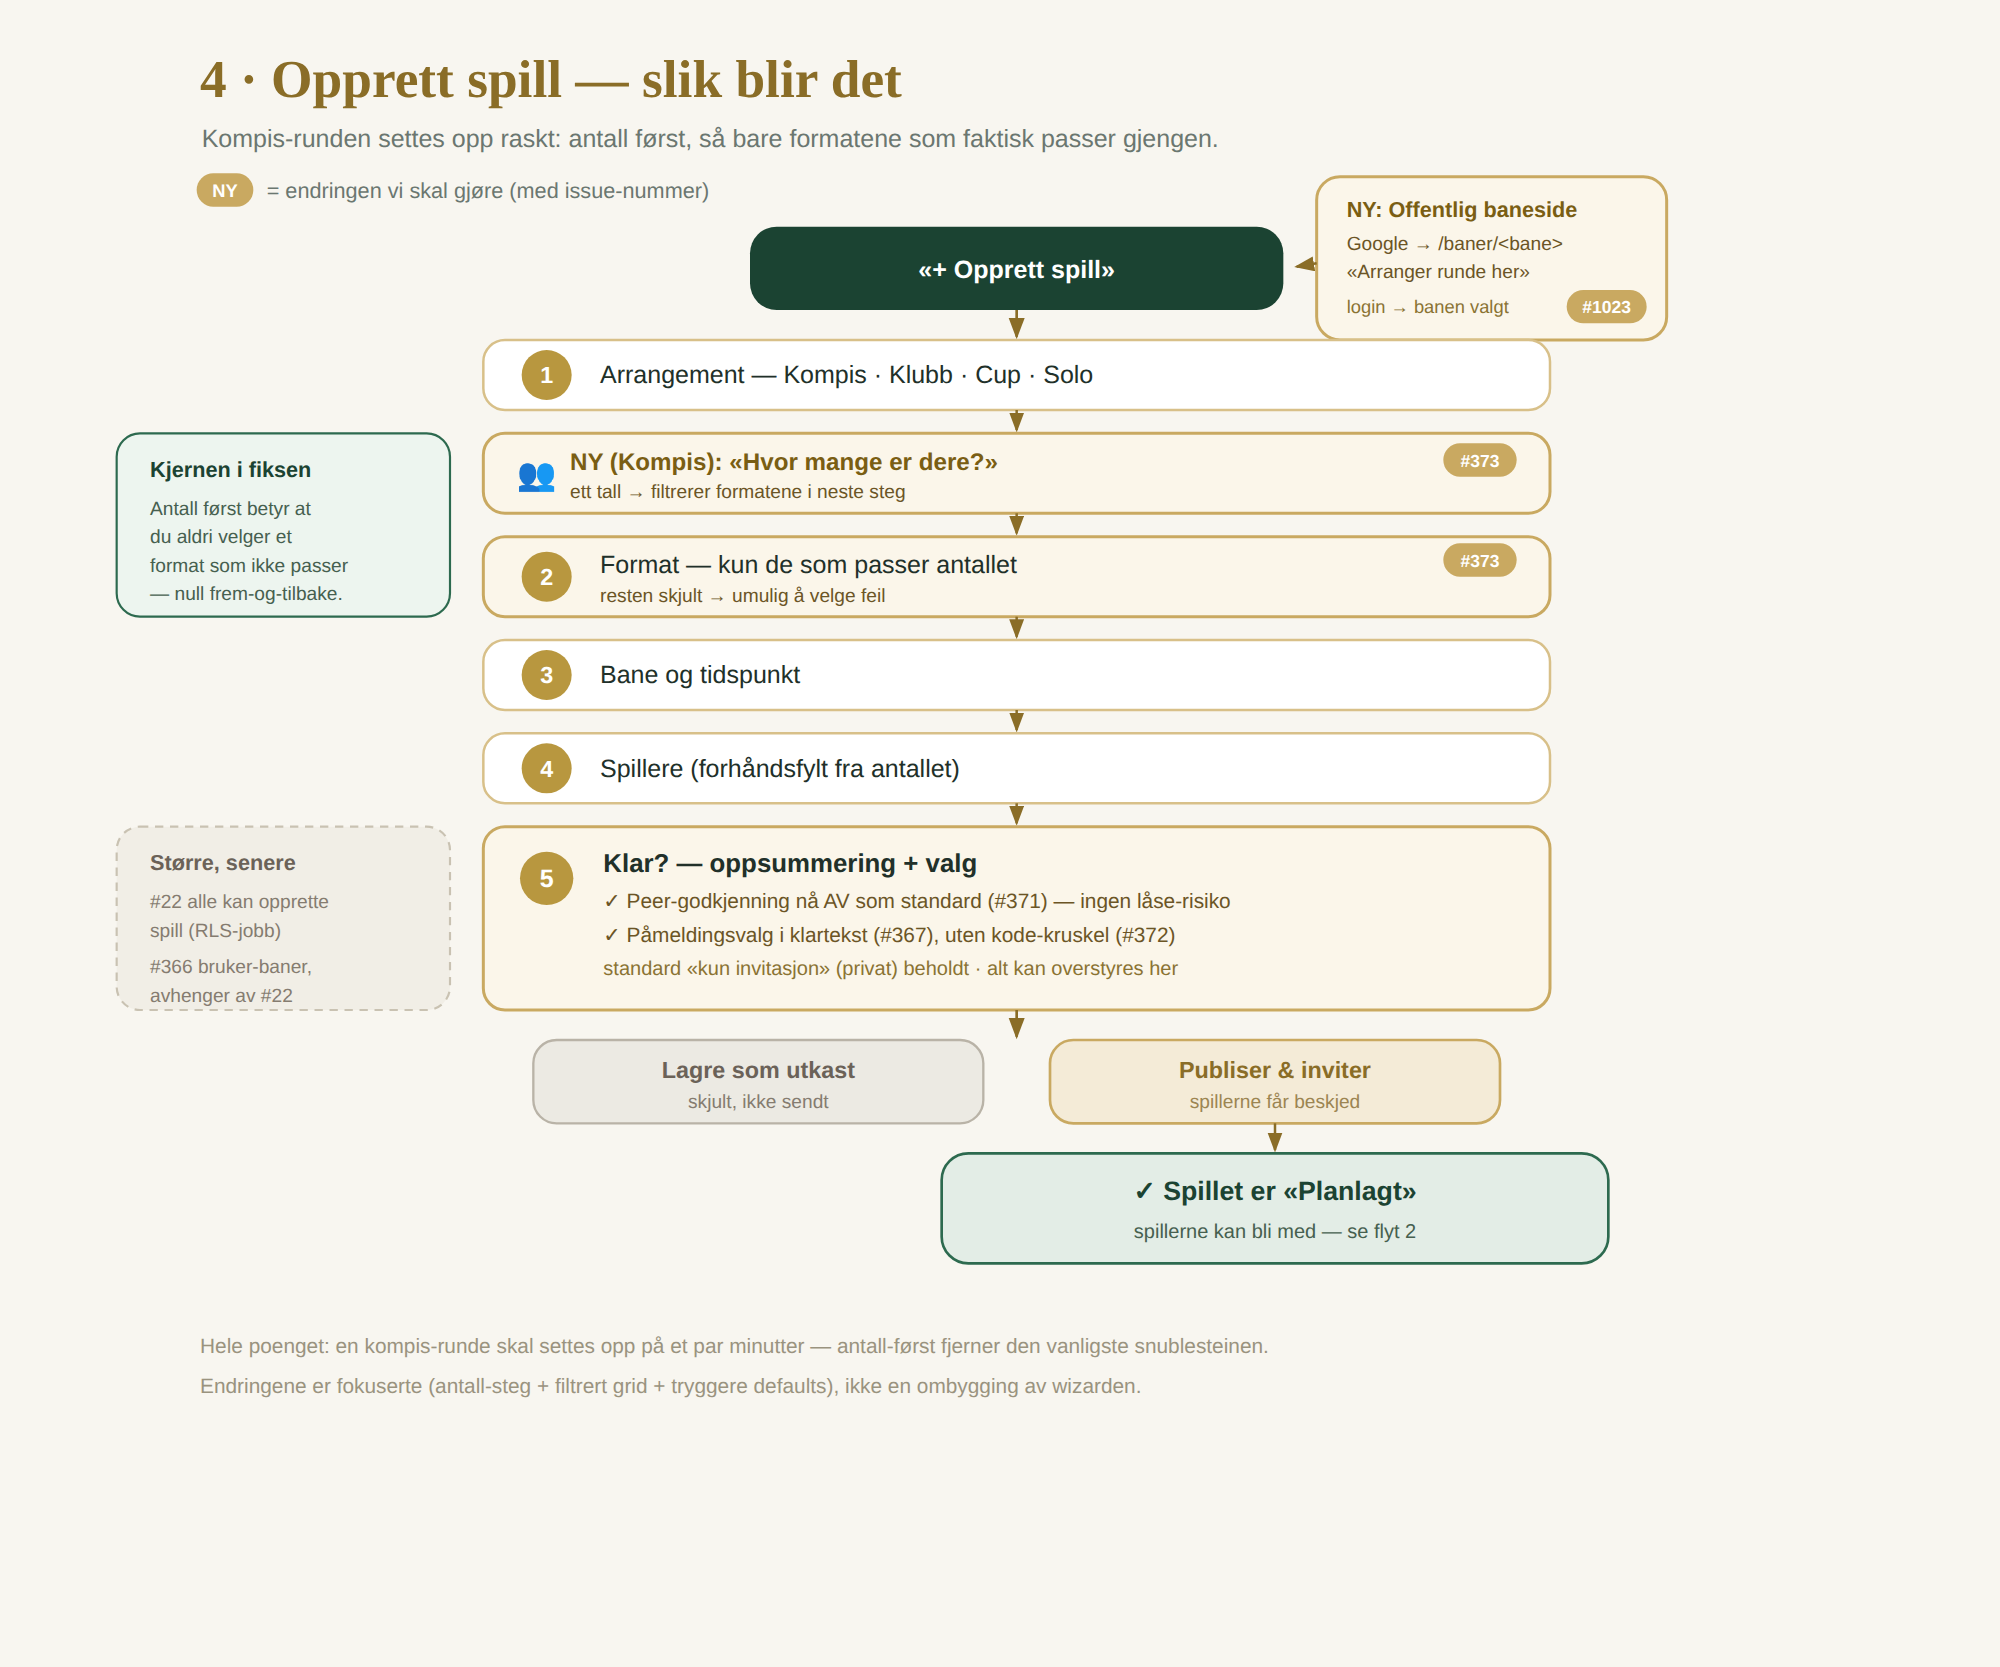
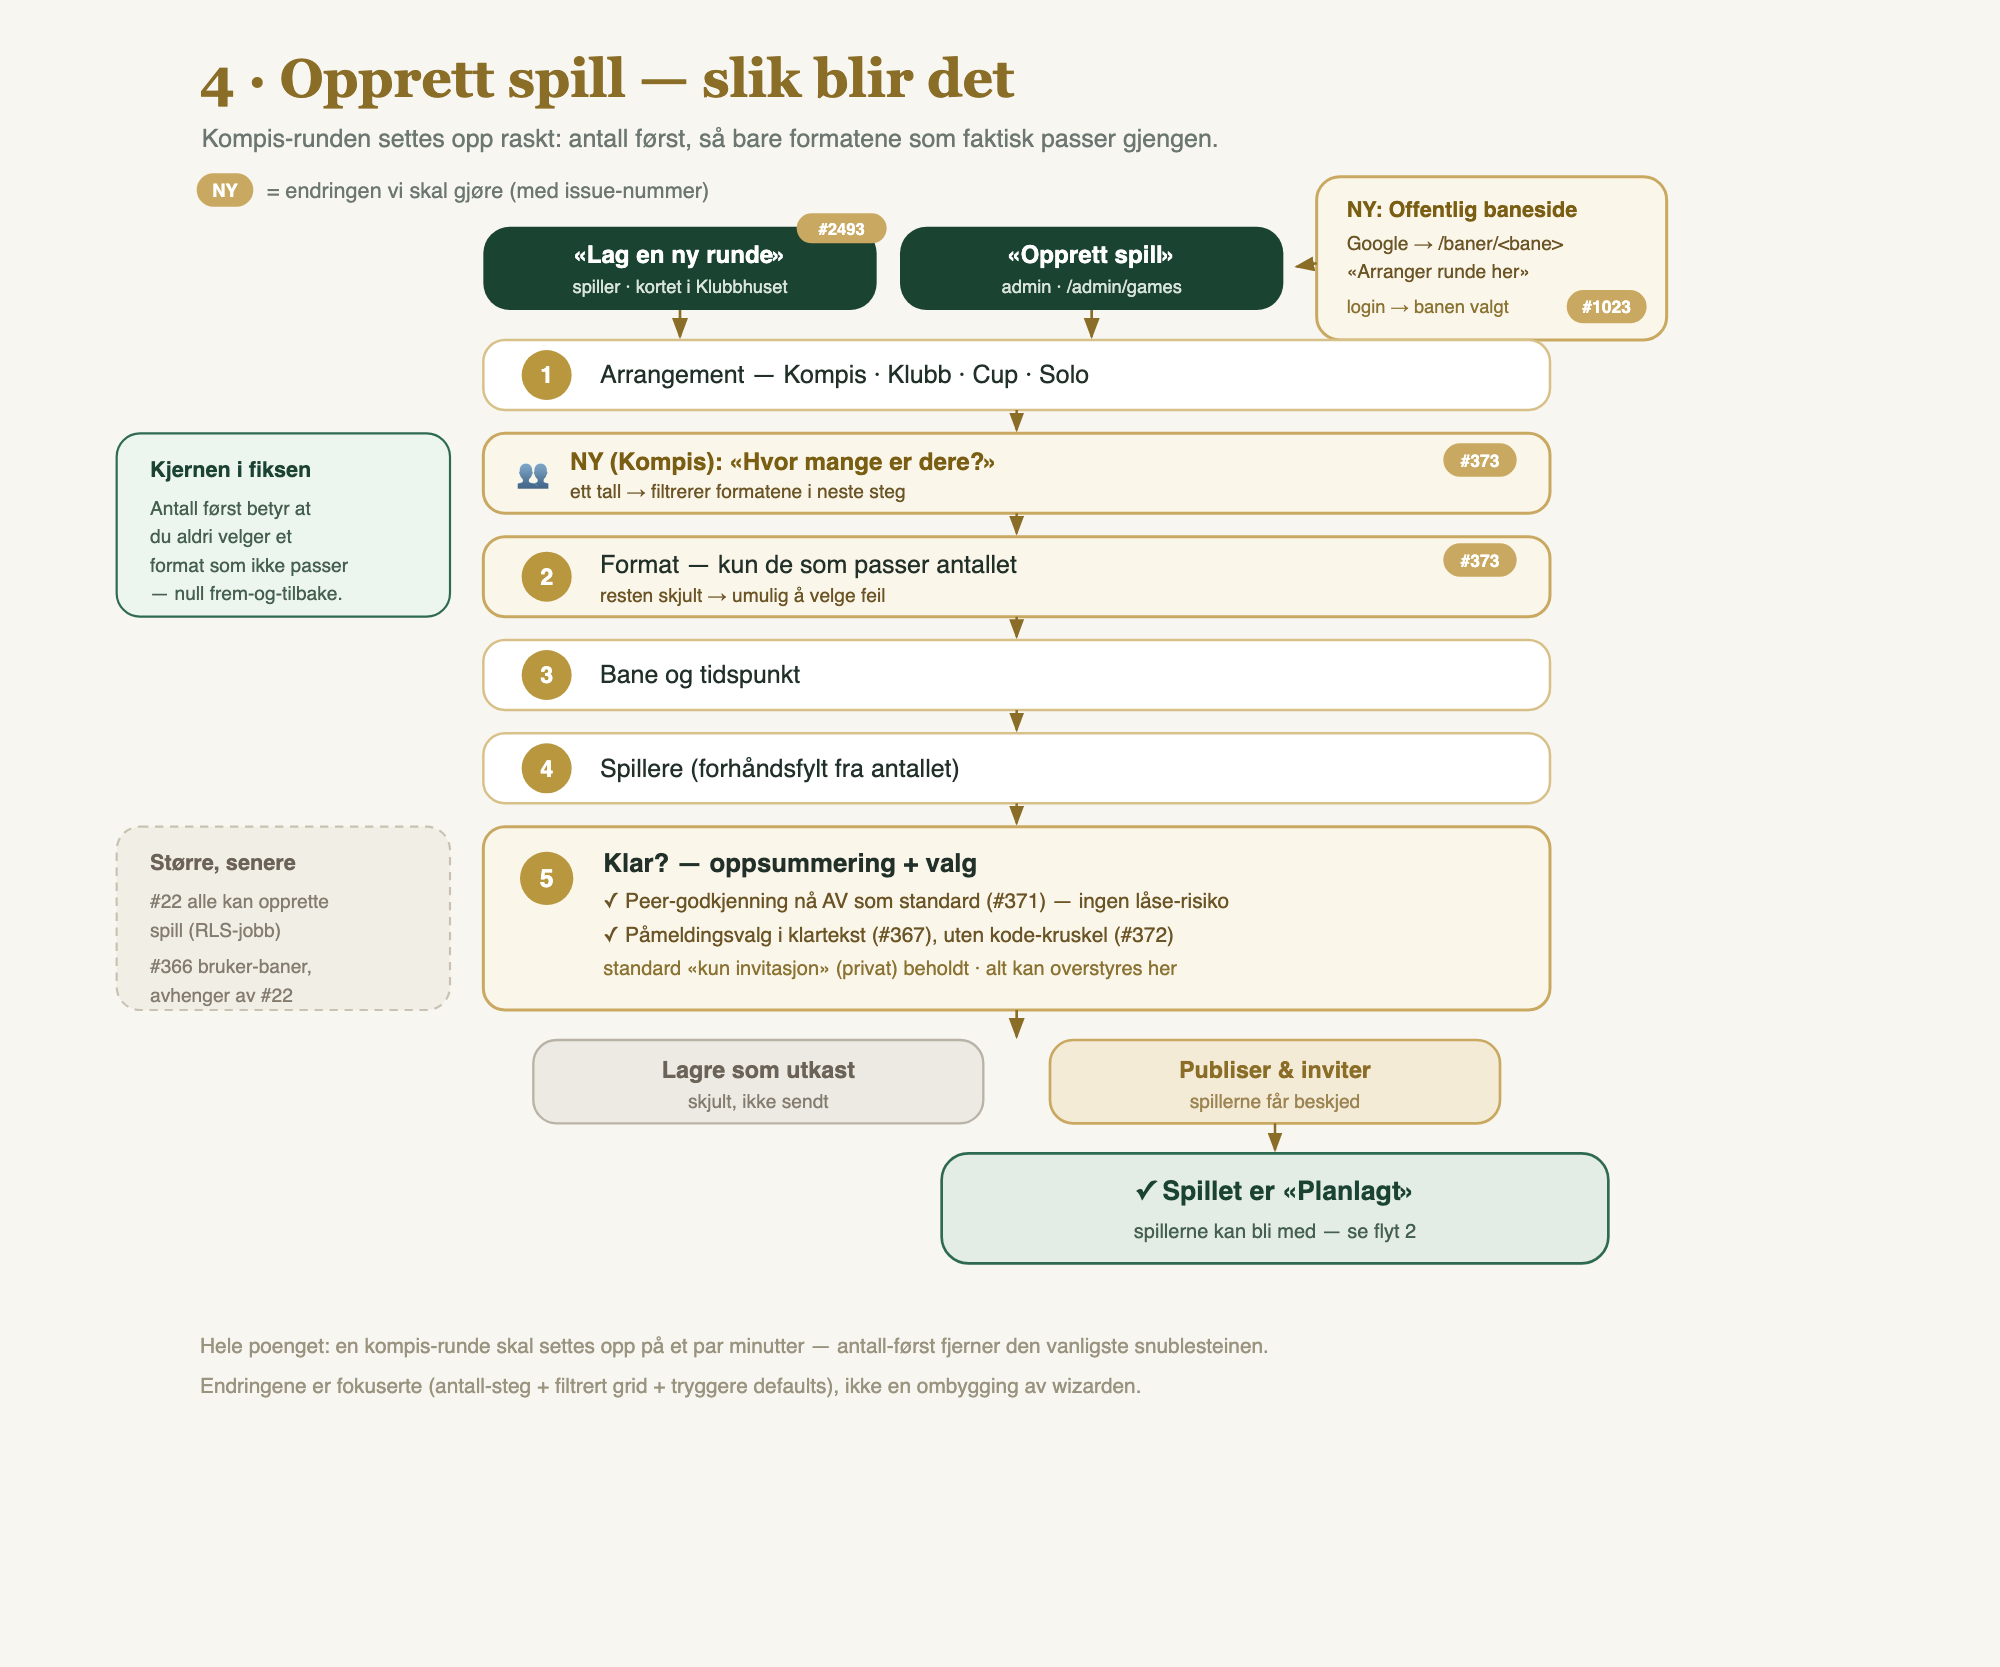
docs(flows): two doors into the wizard, and the redrawn room
- 04-opprett-spill-fremtid: the entry box is split into «Lag en ny
  runde» (player, the card in Klubbhuset) and «Opprett spill» (admin,
  /admin/games); PNG regenerated with regen-png.mjs.
- user-flows: A1 names both doors and their intents, A4 and the §0
  diagram describe the room as #2493 draws it.

Refs #2493

Claude-Session: https://claude.ai/code/session_01PbQJdtr72S6CFEU7aw84Qz

diff --git a/docs/user-flows.md b/docs/user-flows.md
@@ -40,7 +40,7 @@ flowchart TD
   Nav --> Klub["Klubbhuset → /admin"]
   Klub --> KP{is_admin?}
   KP -- ja --> Sek["Hele Sekretariatet<br/>(Spill, Spillere, Baner, Cup, Formater, …)"]
-  KP -- nei --> PlayerKlub["Adaptivt spiller-rom (#892):<br/>invitasjon til å arrangere<br/>+ Dine klubber + Det du arrangerer<br/>+ Verktøy (Baner, Spillformater)"]
+  KP -- nei --> PlayerKlub["Spiller-rommet (#892, #2493):<br/>«Lag en ny runde» + Rundene dine<br/>+ Klubbene dine + Cuper<br/>+ Verktøy (Baner, Spillformater, idé)"]
 ```
 
 **Persistente nav-elementer** (verifisert i `app/[locale]/layout.tsx` + sidene):
@@ -56,8 +56,8 @@ i redigeringsveiviseren på `/admin/games/[id]/edit` og `/games/[id]/rediger` (e
 fra Klubbhuset (Baner, Spillformater, en klubb), går tilbake dit: lenkene bærer `?kilde=klubbhuset`
 (#2487), og kvitteringen for ny bane sier «Tilbake til Klubbhuset». «Klubbhuset» er universell:
 fanen gates ikke på rolle, men flatene inne gates — admin ser hele Sekretariatet, mens spilleren
-møter et **adaptivt rom** (#892): en invitasjon til å arrangere (aldri en blindvei), klubbene sine,
-spillene/cupene de selv har satt opp, og Verktøy (Baner + Spillformater) nederst. **Opprett
+møter et **rom** (#892, tegnet om i #2493): kortet «Lag en ny runde» (den eneste døra til en ny
+runde), rundene de selv har satt opp, klubbene og cupene sine, og Verktøy (Baner + Spillformater) nederst. **Opprett
 spill/bane bor inne i Klubbhuset, ikke på Hjem.** Hjem er play + discover-navet: dine spill +
 «Finn turneringer». **Finn turneringer er terminlista** (#2258): én liste sortert på starttid og delt i
 dager («Lørdag 4. oktober · om 3 dager»), med filterbrikkene «Alle», «Denne helga» og «Klubben min»
@@ -191,7 +191,7 @@ flowchart LR
 
 ### A1 — Opprett spill (GameWizard, 5 steg)
 
-Inngang: via Klubbhuset (#392) — admin går Spill-flaten → `/admin/games/new`; vanlig spiller går Spill-flaten → `/opprett-spill`. Samme `GameWizard`-komponent, steg via `?step=1..5` + klient-state (ikke rute-per-steg). Steg 4 har en andre skjerm for lag, sider og flights (`?step=4&skjerm=lag`, #2321).
+Inngang: to dører (#2493). En spiller trykker «Lag en ny runde»-kortet i Klubbhus-rommet: «Med kompiser» åpner `/opprett-spill?intent=kompis`, «For klubben» (bare for klubbadmin, `isClubAdminAnywhere`) åpner `?intent=klubb`, og ellers står «Annen runde» → `/opprett-spill` uten forvalg. Admin trykker «Opprett spill» på `/admin/games` → `/admin/games/new`. Samme `GameWizard`-komponent, steg via `?step=1..5` + klient-state (ikke rute-per-steg). Steg 4 har en andre skjerm for lag, sider og flights (`?step=4&skjerm=lag`, #2321).
 
 ```mermaid
 flowchart LR
@@ -237,7 +237,7 @@ Publiserer en arrangør som ikke er admin uten å stå på lista selv, lander he
 
 ### A4 — Klubbhuset / Sekretariatet (dashboard)
 
-`/admin` (`AdminShell`) — nådd via den universelle «Klubbhuset»-bunn-nav-fanen (#392). Fanens forside har ingen tilbakepil (#2487). For admin: hilsen + fire rader i full bredde (`DenseTileList`: Spill / Spillere / Baner / Resultatprotokoll, og «Innsendte ideer» som femte når det ligger usette ideer) + «Mer i Sekretariatet» som et tokolonners rutenett av kompakte kort (`CompactTileGrid`: Cuper / Ligaer / Lanseringer / Klubber / Formats / Spillformater, og «Innsendte ideer» som sjuende når køen er tom) + aktivitets-logg (siste 14 dager). For vanlig spiller: et **adaptivt rom** (#892, `PlayerKlubbhus.tsx`) som varierer på to fakta — har du klubber, og har du opprettet noe spill/cup. Seksjoner i rekkefølge: hilsen (umiddelbar) → arrangement-blokk (invitasjon «Sett opp en runde» / «… eller en cup» når 0 opprettet, ellers «Det du arrangerer» med «+ Ny runde» + capped liste) og raden «Cuper» med «Du er med i n» når du er med i minst én cup → Dine klubber (inline `getMyClubs`-liste, ellers «Ikke med i en klubb ennå →») → Verktøy (Baner, Spillformater og «Har du en idé?»). Lista i «Det du arrangerer» (og «Se alle» på `/klubbhuset`) tar ikke med cupkamper og ligaflighter; de hører til cupens og ligaens side (`onlyStandaloneGames`, #2489). `/klubbhuset` heter «Rundene dine» og grupperer rundene etter hva som skjer (#2269): «I gang nå» (hvor mange som har levert, ventende godkjenninger og «Styr spillere»), «Neste» (dato, tid, påmeldte og påmeldingen, eller hvorfor runden ikke starter av seg selv), «n utkast · fortsett der du slapp» (ett utkast åpner «Klar?» i veiviseren, for admin på `/admin/games/[id]/edit` og for andre arrangører på `/games/[id]/rediger`; flere åpner `?vis=utkast`) og «Ferdige runder · n» (`?vis=ferdige`). Tomme grupper skjules, og siden har ingen dør for ny runde. Baner, Spillformater og klubbradene bærer `?kilde=klubbhuset`, så tilbake fra dem går til `/admin`. Arrangement + klubber strømmer bak hver sin Suspense; ingen admin-tellinger eller aktivitets-logg.
+`/admin` (`AdminShell`) — nådd via den universelle «Klubbhuset»-bunn-nav-fanen (#392). Fanens forside har ingen tilbakepil (#2487). For admin: hilsen + fire rader i full bredde (`DenseTileList`: Spill / Spillere / Baner / Resultatprotokoll, og «Innsendte ideer» som femte når det ligger usette ideer) + «Mer i Sekretariatet» som et tokolonners rutenett av kompakte kort (`CompactTileGrid`: Cuper / Ligaer / Lanseringer / Klubber / Formats / Spillformater, og «Innsendte ideer» som sjuende når køen er tom) + aktivitets-logg (siste 14 dager). For vanlig spiller: et **rom** (#892, `PlayerKlubbhus.tsx`), tegnet om etter rom-artboardene i #2493. Toppen sier bare «Klubbhuset» (uten pil), og under står hilsenen «Hei, Kari.» som sidens overskrift. Seksjoner i rekkefølge: kortet «Lag en ny runde» (eneste dør til ny runde: «Med kompiser» + «For klubben» for klubbadmin, ellers «Annen runde») → rundene du har satt opp (`ArrangedRoundsView` fra `getArrangedRounds`, maks tre i «Neste» og «Alle n →» til `/klubbhuset` når det er flere) → Klubbene dine (rolle, antall medlemmer og neste runde, ellers «ingen runder satt opp»; uten klubb står «Ikke med i en klubb ennå →») → Cuper (én rad per cup som ikke er ferdig, «Du er med · 3 av 8 kamper spilt»; bare ferdige cuper gir raden «Cuper · Du er med i n») → Verktøy (Baner, Spillformater og «Har du en idé?» som rader uten ikoner). Hver seksjon strømmer bak sin egen Suspense og viser en feilboks der hvis lesingen feiler (#2490). Lista over rundene tar ikke med cupkamper og ligaflighter; de hører til cupens og ligaens side (`onlyStandaloneGames`, #2489). `/klubbhuset` heter «Rundene dine» og grupperer rundene etter hva som skjer (#2269): «I gang nå» (hvor mange som har levert, ventende godkjenninger og «Styr spillere»), «Neste» (dato, tid, påmeldte og påmeldingen, eller hvorfor runden ikke starter av seg selv), «n utkast · fortsett der du slapp» (ett utkast åpner «Klar?» i veiviseren, for admin på `/admin/games/[id]/edit` og for andre arrangører på `/games/[id]/rediger`; flere åpner `?vis=utkast`) og «Ferdige runder · n» (`?vis=ferdige`). Tomme grupper skjules, og siden har ingen dør for ny runde. Baner, Spillformater og klubbradene bærer `?kilde=klubbhuset`, så tilbake fra dem går til `/admin`. Rommet har ingen admin-tellinger eller aktivitets-logg.
 
 ---
 
